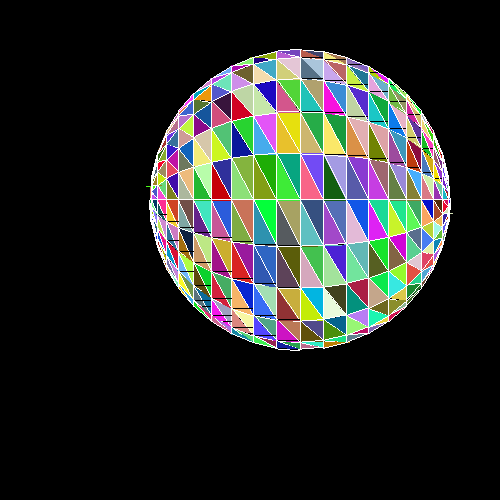
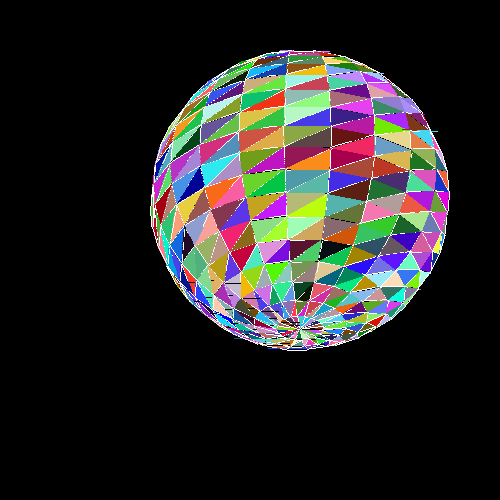
scanline buggy but works, not bothering to fix sorry mr dw

Changed region(s): [[0.3, 0.09, 0.9, 0.72]]

diff --git a/draw.py b/draw.py
@@ -24,25 +24,29 @@ def scanline_convert(top,middle,bottom,screen,):
     randomred = random.randint(0,255)
     randomgreen = random.randint(0,255)
     randomblue = random.randint(0,255)
-    for dy in xrange(int(round(middle[1] - bottom[1] + 1))):
-        if (middle[1] - bottom[1] != 0 and top[1] - bottom[1] != 0):
+    for dy in xrange(int(round(middle[1] - bottom[1] ) + 1)):
+        if (middle[1] != bottom[1] and top[1] != bottom[1]):
+            z_current0 = (top[2] - bottom[2]) * dy/(top[1]-bottom[1]) + bottom[2]
+            z_current1 = (middle[2] - bottom[2]) * dy/(middle[1]-bottom[1]) + bottom[2]
             draw_line(screen, 
                       bottom[0] + ((top[0] - bottom[0])/(top[1] - bottom[1]))*dy,
                       bottom[1] + dy,
-                      -10000,
+                      z_current0,
                       bottom[0] + ((middle[0] - bottom[0])/(middle[1] - bottom[1]))*dy,
                       bottom[1] + dy,
-                      -10000,
+                      z_current1,
                       [randomred, randomgreen, randomblue])
-    for dy in xrange(int(round(top[1] - middle[1] + 1))):
+    for dy in xrange(int(round(top[1] - middle[1]) + 1)):
         if (top[1]-bottom[1] != 0 and top[1]-middle[1] != 0):
+            z_current0 = (top[2] - bottom[2]) * dy/(top[1]-bottom[1]) + bottom[2]
+            z_current1 = (top[2] - middle[2]) * dy/(top[1]-middle[1]) + middle[2]
             draw_line(screen,
                       top[0] - ((top[0] - bottom[0])/(top[1] - bottom[1]))*dy,
                       top[1] - dy,
-                      -10000,
+                      z_current0,
                       top[0] - ((top[0] - middle[0])/(top[1] - middle[1]))*dy,
                       top[1] - dy,
-                      -10000,
+                      z_current1,
                       [randomred, randomgreen, randomblue])
             
 def draw_polygons( points, screen, color ):
